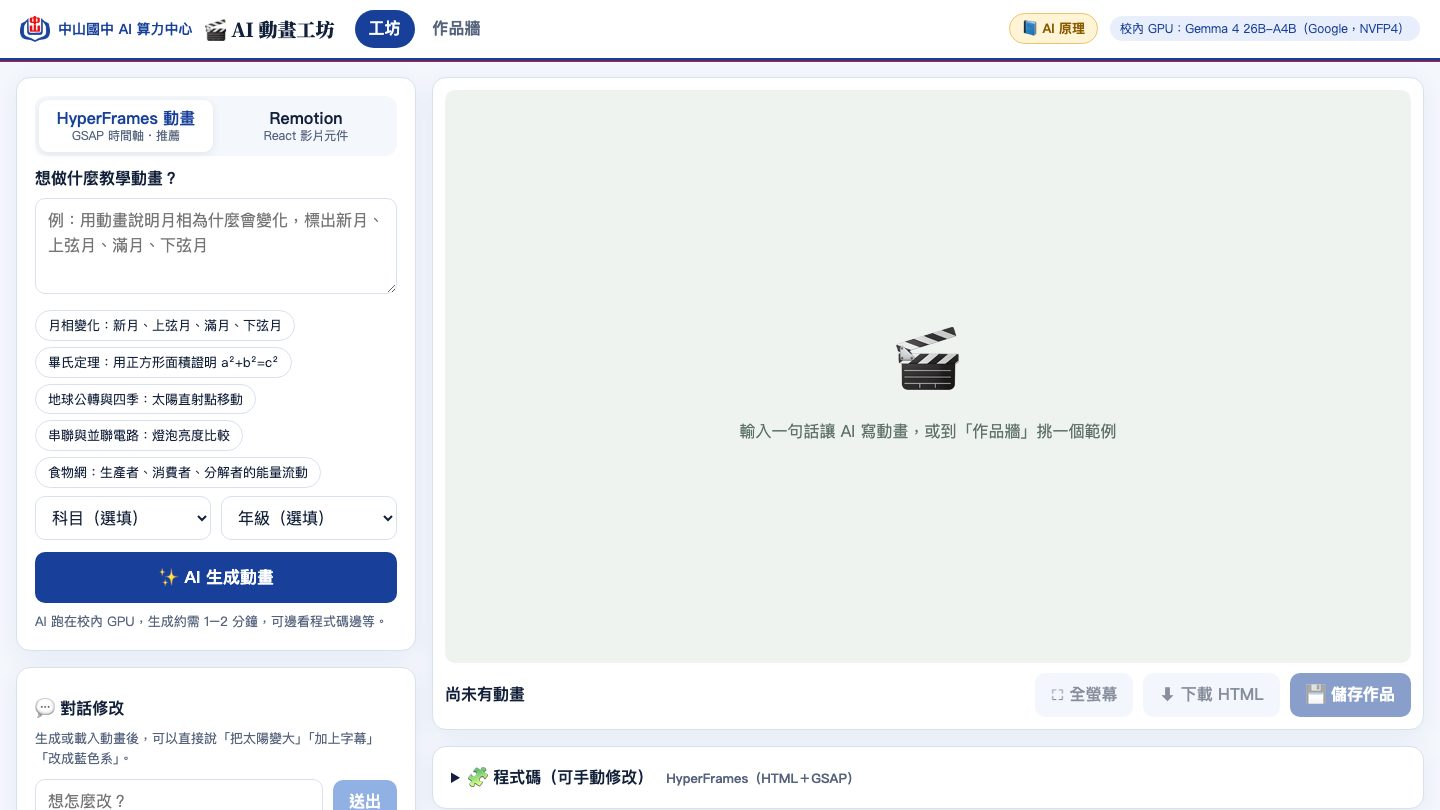
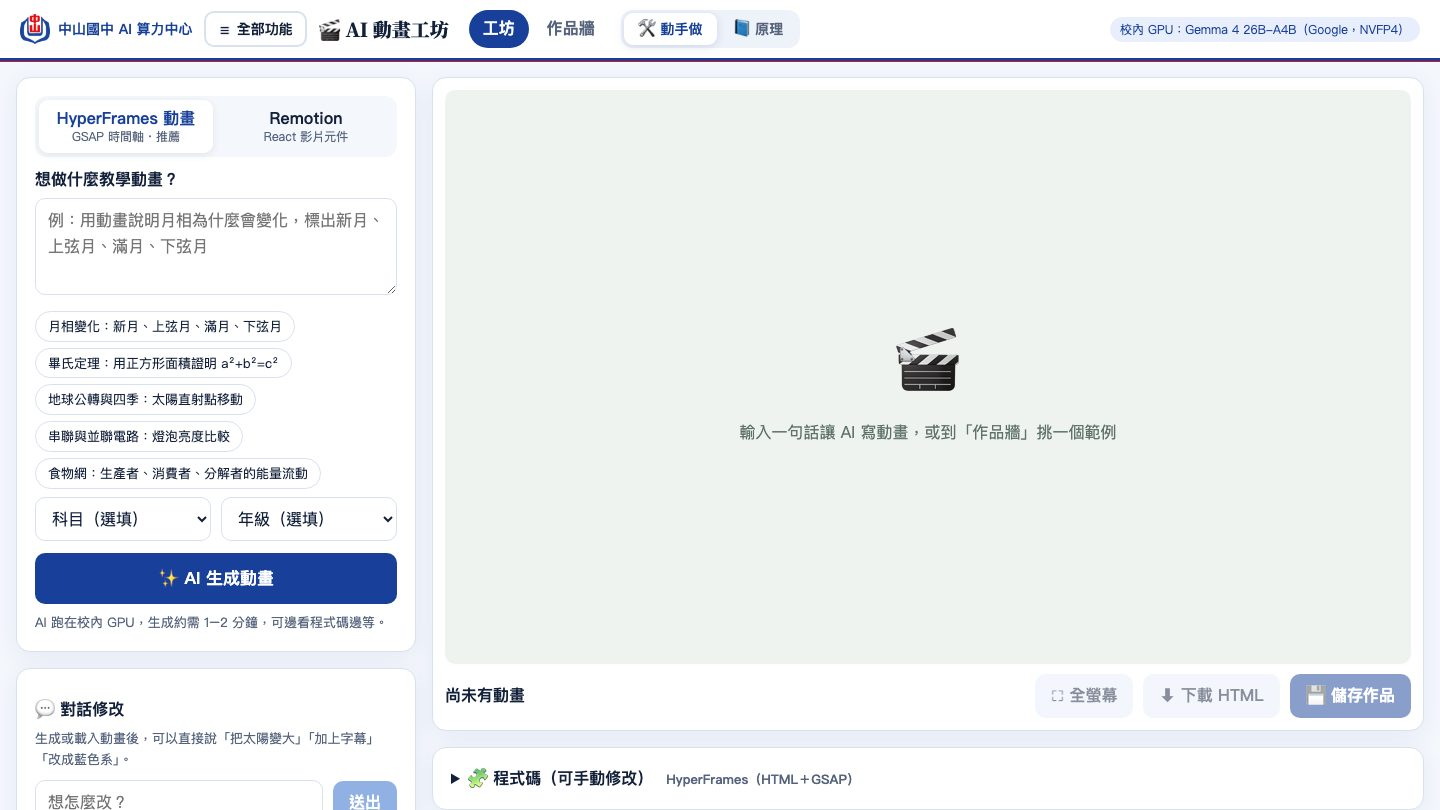
改回淺色系：封面／章節／宣言頁與一般頁面同一套淺色語言；卡片、步驟、表格、截圖改圓角柔和陰影＋漸層點綴；重拍網站截圖（新版導覽）

diff --git a/docs/index.html b/docs/index.html
@@ -225,44 +225,52 @@ ol.bul li::marker{font-weight:900;color:var(--blue)}
 #zoom.on{display:flex}
 #zoom img{max-width:96vw;max-height:96vh;object-fit:contain;border-radius:10px;background:#fff;box-shadow:0 10px 60px rgba(0,0,0,.5)}
 
-/* ===== 2026-11-23 衝擊版：暗色封面（GX10 3D）、暗色章節頁、大字宣言頁、圖解頁、暗色數字頁 ===== */
-.slide.t-cover,.slide.t-closing,.slide.t-divider,.slide.t-statement,.slide.dark{background:radial-gradient(ellipse at 70% 115%,#123a8c 0%,#071534 45%,#02040b 85%)}
-.slide.t-cover::before,.slide.t-closing::before,.slide.t-divider::before,.slide.t-statement::before,.slide.dark::before{background:linear-gradient(90deg,#3fc0e8,#7048e8 55%,#f2a516)!important;height:6px!important}
-.grad{background:linear-gradient(90deg,#7fe3ff 0%,#b98bff 48%,#ffc23d 100%);-webkit-background-clip:text;background-clip:text;color:transparent}
-.hero{position:absolute;inset:0;display:grid;grid-template-columns:1fr 1fr;align-items:center;padding:0 90px 0 110px}
-.hero canvas.gx{position:absolute;right:-40px;top:120px;width:1060px;height:820px}
+/* ===== 2026-11-23 衝擊版（淺色）：Nora 偏好淺色底，封面／章節／宣言頁與一般頁面同一套淺色語言 ===== */
+:root{--g1:#2563c9;--g2:#7048e8;--g3:#e8590c}
+.slide{background:radial-gradient(ellipse at 85% -10%,#e6efff 0%,rgba(230,239,255,0) 45%),radial-gradient(ellipse at -10% 110%,#fff1e0 0%,rgba(255,241,224,0) 40%),#fbfcff;
+  background-image:radial-gradient(ellipse at 85% -10%,#e6efff 0%,rgba(230,239,255,0) 45%),radial-gradient(ellipse at -10% 110%,#fff1e6 0%,rgba(255,241,230,0) 40%),radial-gradient(circle at 1px 1px,#e6edf7 1px,transparent 0);background-size:auto,auto,28px 28px}
+.grad{background:linear-gradient(90deg,var(--g1) 0%,var(--g2) 50%,var(--g3) 100%);-webkit-background-clip:text;background-clip:text;color:transparent}
+/* 標題：細漸層底線 */
+.slide .title span{background:none!important;border-bottom:0!important}
+.slide .title{position:relative;padding-bottom:16px}
+.slide .title::after{content:"";position:absolute;left:0;bottom:0;width:180px;height:7px;border-radius:7px;background:linear-gradient(90deg,var(--g1),var(--g2),var(--g3))}
+/* 卡片、步驟、表格、截圖：圓角＋柔和陰影（取代手繪框） */
+.card{border:1.5px solid #dfe7f3;border-radius:28px;box-shadow:0 18px 44px rgba(30,58,110,.09),0 2px 6px rgba(30,58,110,.05);padding:34px 38px}
+.card h3{color:#13203a}
+.cards.c3 .card::before,.cards.c2 .card::before,.cards.c4 .card::before{content:"";position:absolute;left:38px;top:0;width:64px;height:6px;border-radius:0 0 6px 6px;background:linear-gradient(90deg,var(--g1),var(--g2))}
+.stat .big{background:linear-gradient(90deg,var(--g1),var(--g2) 55%,var(--g3));-webkit-background-clip:text;background-clip:text;color:transparent;font-size:104px}
+.card .num,.steps .num{background:linear-gradient(135deg,var(--g1),var(--g2))}
+.arrows .card:not(:last-child)::after{color:#b3c1d8}
+.steps li{border:1.5px solid #dfe7f3;border-radius:26px;box-shadow:0 14px 36px rgba(30,58,110,.08);color:#13203a}
+.tbl{border:1.5px solid #dfe7f3;border-radius:26px;box-shadow:0 18px 44px rgba(30,58,110,.08)}
+.tbl th{background:#18409a}.tbl td{border-top:1px solid #e6ecf5}
+.tbl th:nth-child(3){background:linear-gradient(90deg,#c26a12,#e8590c)}.tbl th:nth-child(3),.tbl td:nth-child(3){}
+.shot img,.vid video,.shot.video iframe{border:0;border-radius:22px;box-shadow:0 24px 60px rgba(30,58,110,.18),0 0 0 1px rgba(30,58,110,.08)}
+.st-img img{filter:drop-shadow(0 18px 34px rgba(30,58,110,.18))}
+.prompt.code pre{border:1.5px solid #dfe7f3;box-shadow:0 18px 44px rgba(30,58,110,.08)}
+.foot{border-radius:16px}
+.figw img{border-radius:26px;box-shadow:0 24px 60px rgba(30,58,110,.14),0 0 0 1px rgba(30,58,110,.06)}
+.figw{flex:1;display:flex;align-items:center;justify-content:center;min-height:0}.figw img{max-width:100%;max-height:100%}
+/* 封面／結尾：淺色＋GX10 3D */
+.hero{position:absolute;inset:0;display:grid;grid-template-columns:1fr 1fr;align-items:center;padding:0 90px 0 120px}
+.hero canvas.gx{position:absolute;right:-30px;top:130px;width:1040px;height:800px}
 .hero .ht{position:relative;z-index:2}
-.hero .org{font:700 30px "Noto Sans TC",sans-serif;color:#86d8ff;letter-spacing:.04em}
-.hero h1{font-weight:900;font-size:150px;line-height:1.05;color:#f5f5f7;margin:22px 0 18px;letter-spacing:-.01em}
-.hero .sub{font:700 54px "Noto Sans TC",sans-serif;color:#d6e3ff}
-.hero .meta{margin-top:46px;font:500 34px "Noto Sans TC",sans-serif;color:#a1a1a6}
-.hero .who{margin-top:14px;font:500 34px "Noto Sans TC",sans-serif;color:#d6e3ff}.hero .who b{font-size:44px;color:#fff}
-.slide.t-cover .zsstat,.slide.t-closing .zsstat{background:rgba(255,255,255,.08);border-color:rgba(255,255,255,.2);color:#e6efff}
-.slide.t-cover .zslock,.slide.t-closing .zslock,.slide.t-divider .zslock,.slide.t-statement .zslock{color:#cfe0ff}
-.slide.t-cover .zslock i,.slide.t-closing .zslock i,.slide.t-divider .zslock i{color:#8ea3cc}
-.slide.t-divider .dv-title{color:#f5f5f7;font-size:150px}
-.slide.t-divider .dv-sub{color:#a9bde6;border-bottom-color:#f2a516}
-.slide.t-divider .kicker{background:rgba(255,255,255,.1);border:2px solid rgba(255,255,255,.25)}
-.slide.t-divider .dv-ill .ill{border-radius:36px;background:#fbfdff;box-shadow:0 30px 80px rgba(0,0,0,.55),0 0 0 2px rgba(127,227,255,.25);padding:18px;height:auto;max-height:100%}
-.stmt{height:100%;display:flex;flex-direction:column;justify-content:center;align-items:center;text-align:center}
-.stmt .k{font:700 34px "Noto Sans TC",sans-serif;color:#86d8ff;letter-spacing:.08em;margin-bottom:26px}
-.stmt h2{margin:0;font-weight:900;font-size:150px;line-height:1.12;color:#f5f5f7;letter-spacing:-.01em}
-.stmt p{margin:40px auto 0;max-width:1300px;font:500 40px/1.6 "Noto Sans TC",sans-serif;color:#a1a1a6}
-.figw{flex:1;display:flex;align-items:center;justify-content:center;min-height:0}
-.figw img{max-width:100%;max-height:100%;border-radius:22px;box-shadow:0 14px 44px rgba(30,58,110,.14)}
-.slide.dark .title{color:#f5f5f7}.slide.dark .title span{background:none}
-.slide.dark .kicker{background:rgba(255,255,255,.1);border:2px solid rgba(255,255,255,.25)}
-.slide.dark .card.stat{background:transparent;border:0;border-top:3px solid rgba(255,255,255,.22);border-radius:0;box-shadow:none}
-.slide.dark .card.stat::before,.slide.dark .card.stat::after{display:none}
-.slide.dark .card.stat .big{background:linear-gradient(90deg,#7fe3ff,#b98bff 50%,#ffc23d);-webkit-background-clip:text;background-clip:text;color:transparent;font-size:120px}
-.slide.dark .card.stat h3{color:#f5f5f7}.slide.dark .card.stat p{color:#a1a1a6}
-.slide.dark .foot,.slide.dark .src{color:#a1a1a6}.slide.dark .rel{background:rgba(255,255,255,.06);color:#d6e3ff}
-.slide.dark .shot img{box-shadow:0 30px 80px rgba(0,0,0,.6)}
-.slide.t-divider .ill,.slide.dark .ill{mix-blend-mode:normal}
 .hero .cover-text{background:none;box-shadow:none;padding:0;border-radius:0;text-align:left}
-.slide.t-divider .dv-title{font-size:132px}
-.stmt p{max-width:1560px}
-.slide.dark .foot{background:rgba(255,255,255,.06);color:#d6e3ff}.slide.dark .rel .tag{background:#2563c9}
+.hero .org{font:700 30px "Noto Sans TC",sans-serif;color:#2563c9;letter-spacing:.03em;line-height:1.5}
+.hero h1{font-weight:900;font-size:150px;line-height:1.05;color:#13203a;margin:24px 0 20px;letter-spacing:-.01em}
+.hero .sub{font:700 54px "Noto Sans TC",sans-serif;color:#1e3a6e}
+.hero .meta{margin-top:44px;font:500 34px "Noto Sans TC",sans-serif;color:#56637d}
+.hero .who{margin-top:12px;font:500 34px "Noto Sans TC",sans-serif;color:#1e3a6e}.hero .who b{font-size:44px;color:#13203a}
+.slide.t-cover::after,.slide.t-closing::after{display:none}
+/* 章節頁：淺色大標＋白框插圖 */
+.slide.t-divider .dv-title{font-size:132px;color:#13203a}
+.slide.t-divider .dv-sub{color:#1e3a6e;border-bottom:0;background:linear-gradient(90deg,var(--g1),var(--g2),var(--g3)) left bottom/100% 7px no-repeat;padding-bottom:14px}
+.slide.t-divider .dv-ill .ill{border-radius:36px;background:#fff;box-shadow:0 30px 70px rgba(30,58,110,.18);padding:16px;height:auto;max-height:100%;mix-blend-mode:normal}
+/* 宣言頁：整頁一句話 */
+.stmt{height:100%;display:flex;flex-direction:column;justify-content:center;align-items:center;text-align:center}
+.stmt .k{font:700 34px "Noto Sans TC",sans-serif;color:#2563c9;letter-spacing:.08em;margin-bottom:26px}
+.stmt h2{margin:0;font-weight:900;font-size:156px;line-height:1.12;color:#13203a;letter-spacing:-.01em}
+.stmt p{margin:42px auto 0;max-width:1560px;font:500 40px/1.6 "Noto Sans TC",sans-serif;color:#56637d}
 </style>
 </head>
 <body>
@@ -498,7 +506,7 @@ const still=matchMedia('(prefers-reduced-motion: reduce)').matches;
 let host=null,last=0,full=true,boost=0,pose=0,idx=0;
 function frame(t){requestAnimationFrame(frame);
   const on=document.querySelector('.slide.on');
-  if(on!==host){host=on;if(!on)return;if(on.classList.contains("t-cover"))on.appendChild(cv);else on.insertBefore(cv,on.firstChild);full=/t-(cover|divider|closing|statement)/.test(on.className);cv.style.mixBlendMode=/t-(cover|divider|closing|statement)|dark/.test(on.className)?'screen':'multiply';
+  if(on!==host){host=on;if(!on)return;if(on.classList.contains("t-cover"))on.appendChild(cv);else on.insertBefore(cv,on.firstChild);full=/t-(cover|divider|closing|statement)/.test(on.className);
     idx=[...on.parentNode.children].indexOf(on);pose=((idx%5)-2)*.13;boost=1;}
   if(!host)return;const dt=Math.min((t-last)/1000,.05);last=t;const k=still?1:Math.min(1,dt*5);
   net.fade(full?.75:0,k);hub.fade(full?0:1,k);boost*=1-Math.min(1,dt*1.6);

diff --git a/src/template.html b/src/template.html
@@ -225,44 +225,52 @@ ol.bul li::marker{font-weight:900;color:var(--blue)}
 #zoom.on{display:flex}
 #zoom img{max-width:96vw;max-height:96vh;object-fit:contain;border-radius:10px;background:#fff;box-shadow:0 10px 60px rgba(0,0,0,.5)}
 
-/* ===== 2026-11-23 衝擊版：暗色封面（GX10 3D）、暗色章節頁、大字宣言頁、圖解頁、暗色數字頁 ===== */
-.slide.t-cover,.slide.t-closing,.slide.t-divider,.slide.t-statement,.slide.dark{background:radial-gradient(ellipse at 70% 115%,#123a8c 0%,#071534 45%,#02040b 85%)}
-.slide.t-cover::before,.slide.t-closing::before,.slide.t-divider::before,.slide.t-statement::before,.slide.dark::before{background:linear-gradient(90deg,#3fc0e8,#7048e8 55%,#f2a516)!important;height:6px!important}
-.grad{background:linear-gradient(90deg,#7fe3ff 0%,#b98bff 48%,#ffc23d 100%);-webkit-background-clip:text;background-clip:text;color:transparent}
-.hero{position:absolute;inset:0;display:grid;grid-template-columns:1fr 1fr;align-items:center;padding:0 90px 0 110px}
-.hero canvas.gx{position:absolute;right:-40px;top:120px;width:1060px;height:820px}
+/* ===== 2026-11-23 衝擊版（淺色）：Nora 偏好淺色底，封面／章節／宣言頁與一般頁面同一套淺色語言 ===== */
+:root{--g1:#2563c9;--g2:#7048e8;--g3:#e8590c}
+.slide{background:radial-gradient(ellipse at 85% -10%,#e6efff 0%,rgba(230,239,255,0) 45%),radial-gradient(ellipse at -10% 110%,#fff1e0 0%,rgba(255,241,224,0) 40%),#fbfcff;
+  background-image:radial-gradient(ellipse at 85% -10%,#e6efff 0%,rgba(230,239,255,0) 45%),radial-gradient(ellipse at -10% 110%,#fff1e6 0%,rgba(255,241,230,0) 40%),radial-gradient(circle at 1px 1px,#e6edf7 1px,transparent 0);background-size:auto,auto,28px 28px}
+.grad{background:linear-gradient(90deg,var(--g1) 0%,var(--g2) 50%,var(--g3) 100%);-webkit-background-clip:text;background-clip:text;color:transparent}
+/* 標題：細漸層底線 */
+.slide .title span{background:none!important;border-bottom:0!important}
+.slide .title{position:relative;padding-bottom:16px}
+.slide .title::after{content:"";position:absolute;left:0;bottom:0;width:180px;height:7px;border-radius:7px;background:linear-gradient(90deg,var(--g1),var(--g2),var(--g3))}
+/* 卡片、步驟、表格、截圖：圓角＋柔和陰影（取代手繪框） */
+.card{border:1.5px solid #dfe7f3;border-radius:28px;box-shadow:0 18px 44px rgba(30,58,110,.09),0 2px 6px rgba(30,58,110,.05);padding:34px 38px}
+.card h3{color:#13203a}
+.cards.c3 .card::before,.cards.c2 .card::before,.cards.c4 .card::before{content:"";position:absolute;left:38px;top:0;width:64px;height:6px;border-radius:0 0 6px 6px;background:linear-gradient(90deg,var(--g1),var(--g2))}
+.stat .big{background:linear-gradient(90deg,var(--g1),var(--g2) 55%,var(--g3));-webkit-background-clip:text;background-clip:text;color:transparent;font-size:104px}
+.card .num,.steps .num{background:linear-gradient(135deg,var(--g1),var(--g2))}
+.arrows .card:not(:last-child)::after{color:#b3c1d8}
+.steps li{border:1.5px solid #dfe7f3;border-radius:26px;box-shadow:0 14px 36px rgba(30,58,110,.08);color:#13203a}
+.tbl{border:1.5px solid #dfe7f3;border-radius:26px;box-shadow:0 18px 44px rgba(30,58,110,.08)}
+.tbl th{background:#18409a}.tbl td{border-top:1px solid #e6ecf5}
+.tbl th:nth-child(3){background:linear-gradient(90deg,#c26a12,#e8590c)}.tbl th:nth-child(3),.tbl td:nth-child(3){}
+.shot img,.vid video,.shot.video iframe{border:0;border-radius:22px;box-shadow:0 24px 60px rgba(30,58,110,.18),0 0 0 1px rgba(30,58,110,.08)}
+.st-img img{filter:drop-shadow(0 18px 34px rgba(30,58,110,.18))}
+.prompt.code pre{border:1.5px solid #dfe7f3;box-shadow:0 18px 44px rgba(30,58,110,.08)}
+.foot{border-radius:16px}
+.figw img{border-radius:26px;box-shadow:0 24px 60px rgba(30,58,110,.14),0 0 0 1px rgba(30,58,110,.06)}
+.figw{flex:1;display:flex;align-items:center;justify-content:center;min-height:0}.figw img{max-width:100%;max-height:100%}
+/* 封面／結尾：淺色＋GX10 3D */
+.hero{position:absolute;inset:0;display:grid;grid-template-columns:1fr 1fr;align-items:center;padding:0 90px 0 120px}
+.hero canvas.gx{position:absolute;right:-30px;top:130px;width:1040px;height:800px}
 .hero .ht{position:relative;z-index:2}
-.hero .org{font:700 30px "Noto Sans TC",sans-serif;color:#86d8ff;letter-spacing:.04em}
-.hero h1{font-weight:900;font-size:150px;line-height:1.05;color:#f5f5f7;margin:22px 0 18px;letter-spacing:-.01em}
-.hero .sub{font:700 54px "Noto Sans TC",sans-serif;color:#d6e3ff}
-.hero .meta{margin-top:46px;font:500 34px "Noto Sans TC",sans-serif;color:#a1a1a6}
-.hero .who{margin-top:14px;font:500 34px "Noto Sans TC",sans-serif;color:#d6e3ff}.hero .who b{font-size:44px;color:#fff}
-.slide.t-cover .zsstat,.slide.t-closing .zsstat{background:rgba(255,255,255,.08);border-color:rgba(255,255,255,.2);color:#e6efff}
-.slide.t-cover .zslock,.slide.t-closing .zslock,.slide.t-divider .zslock,.slide.t-statement .zslock{color:#cfe0ff}
-.slide.t-cover .zslock i,.slide.t-closing .zslock i,.slide.t-divider .zslock i{color:#8ea3cc}
-.slide.t-divider .dv-title{color:#f5f5f7;font-size:150px}
-.slide.t-divider .dv-sub{color:#a9bde6;border-bottom-color:#f2a516}
-.slide.t-divider .kicker{background:rgba(255,255,255,.1);border:2px solid rgba(255,255,255,.25)}
-.slide.t-divider .dv-ill .ill{border-radius:36px;background:#fbfdff;box-shadow:0 30px 80px rgba(0,0,0,.55),0 0 0 2px rgba(127,227,255,.25);padding:18px;height:auto;max-height:100%}
-.stmt{height:100%;display:flex;flex-direction:column;justify-content:center;align-items:center;text-align:center}
-.stmt .k{font:700 34px "Noto Sans TC",sans-serif;color:#86d8ff;letter-spacing:.08em;margin-bottom:26px}
-.stmt h2{margin:0;font-weight:900;font-size:150px;line-height:1.12;color:#f5f5f7;letter-spacing:-.01em}
-.stmt p{margin:40px auto 0;max-width:1300px;font:500 40px/1.6 "Noto Sans TC",sans-serif;color:#a1a1a6}
-.figw{flex:1;display:flex;align-items:center;justify-content:center;min-height:0}
-.figw img{max-width:100%;max-height:100%;border-radius:22px;box-shadow:0 14px 44px rgba(30,58,110,.14)}
-.slide.dark .title{color:#f5f5f7}.slide.dark .title span{background:none}
-.slide.dark .kicker{background:rgba(255,255,255,.1);border:2px solid rgba(255,255,255,.25)}
-.slide.dark .card.stat{background:transparent;border:0;border-top:3px solid rgba(255,255,255,.22);border-radius:0;box-shadow:none}
-.slide.dark .card.stat::before,.slide.dark .card.stat::after{display:none}
-.slide.dark .card.stat .big{background:linear-gradient(90deg,#7fe3ff,#b98bff 50%,#ffc23d);-webkit-background-clip:text;background-clip:text;color:transparent;font-size:120px}
-.slide.dark .card.stat h3{color:#f5f5f7}.slide.dark .card.stat p{color:#a1a1a6}
-.slide.dark .foot,.slide.dark .src{color:#a1a1a6}.slide.dark .rel{background:rgba(255,255,255,.06);color:#d6e3ff}
-.slide.dark .shot img{box-shadow:0 30px 80px rgba(0,0,0,.6)}
-.slide.t-divider .ill,.slide.dark .ill{mix-blend-mode:normal}
 .hero .cover-text{background:none;box-shadow:none;padding:0;border-radius:0;text-align:left}
-.slide.t-divider .dv-title{font-size:132px}
-.stmt p{max-width:1560px}
-.slide.dark .foot{background:rgba(255,255,255,.06);color:#d6e3ff}.slide.dark .rel .tag{background:#2563c9}
+.hero .org{font:700 30px "Noto Sans TC",sans-serif;color:#2563c9;letter-spacing:.03em;line-height:1.5}
+.hero h1{font-weight:900;font-size:150px;line-height:1.05;color:#13203a;margin:24px 0 20px;letter-spacing:-.01em}
+.hero .sub{font:700 54px "Noto Sans TC",sans-serif;color:#1e3a6e}
+.hero .meta{margin-top:44px;font:500 34px "Noto Sans TC",sans-serif;color:#56637d}
+.hero .who{margin-top:12px;font:500 34px "Noto Sans TC",sans-serif;color:#1e3a6e}.hero .who b{font-size:44px;color:#13203a}
+.slide.t-cover::after,.slide.t-closing::after{display:none}
+/* 章節頁：淺色大標＋白框插圖 */
+.slide.t-divider .dv-title{font-size:132px;color:#13203a}
+.slide.t-divider .dv-sub{color:#1e3a6e;border-bottom:0;background:linear-gradient(90deg,var(--g1),var(--g2),var(--g3)) left bottom/100% 7px no-repeat;padding-bottom:14px}
+.slide.t-divider .dv-ill .ill{border-radius:36px;background:#fff;box-shadow:0 30px 70px rgba(30,58,110,.18);padding:16px;height:auto;max-height:100%;mix-blend-mode:normal}
+/* 宣言頁：整頁一句話 */
+.stmt{height:100%;display:flex;flex-direction:column;justify-content:center;align-items:center;text-align:center}
+.stmt .k{font:700 34px "Noto Sans TC",sans-serif;color:#2563c9;letter-spacing:.08em;margin-bottom:26px}
+.stmt h2{margin:0;font-weight:900;font-size:156px;line-height:1.12;color:#13203a;letter-spacing:-.01em}
+.stmt p{margin:42px auto 0;max-width:1560px;font:500 40px/1.6 "Noto Sans TC",sans-serif;color:#56637d}
 </style>
 </head>
 <body>
@@ -422,7 +430,7 @@ const still=matchMedia('(prefers-reduced-motion: reduce)').matches;
 let host=null,last=0,full=true,boost=0,pose=0,idx=0;
 function frame(t){requestAnimationFrame(frame);
   const on=document.querySelector('.slide.on');
-  if(on!==host){host=on;if(!on)return;if(on.classList.contains("t-cover"))on.appendChild(cv);else on.insertBefore(cv,on.firstChild);full=/t-(cover|divider|closing|statement)/.test(on.className);cv.style.mixBlendMode=/t-(cover|divider|closing|statement)|dark/.test(on.className)?'screen':'multiply';
+  if(on!==host){host=on;if(!on)return;if(on.classList.contains("t-cover"))on.appendChild(cv);else on.insertBefore(cv,on.firstChild);full=/t-(cover|divider|closing|statement)/.test(on.className);
     idx=[...on.parentNode.children].indexOf(on);pose=((idx%5)-2)*.13;boost=1;}
   if(!host)return;const dt=Math.min((t-last)/1000,.05);last=t;const k=still?1:Math.min(1,dt*5);
   net.fade(full?.75:0,k);hub.fade(full?0:1,k);boost*=1-Math.min(1,dt*1.6);
